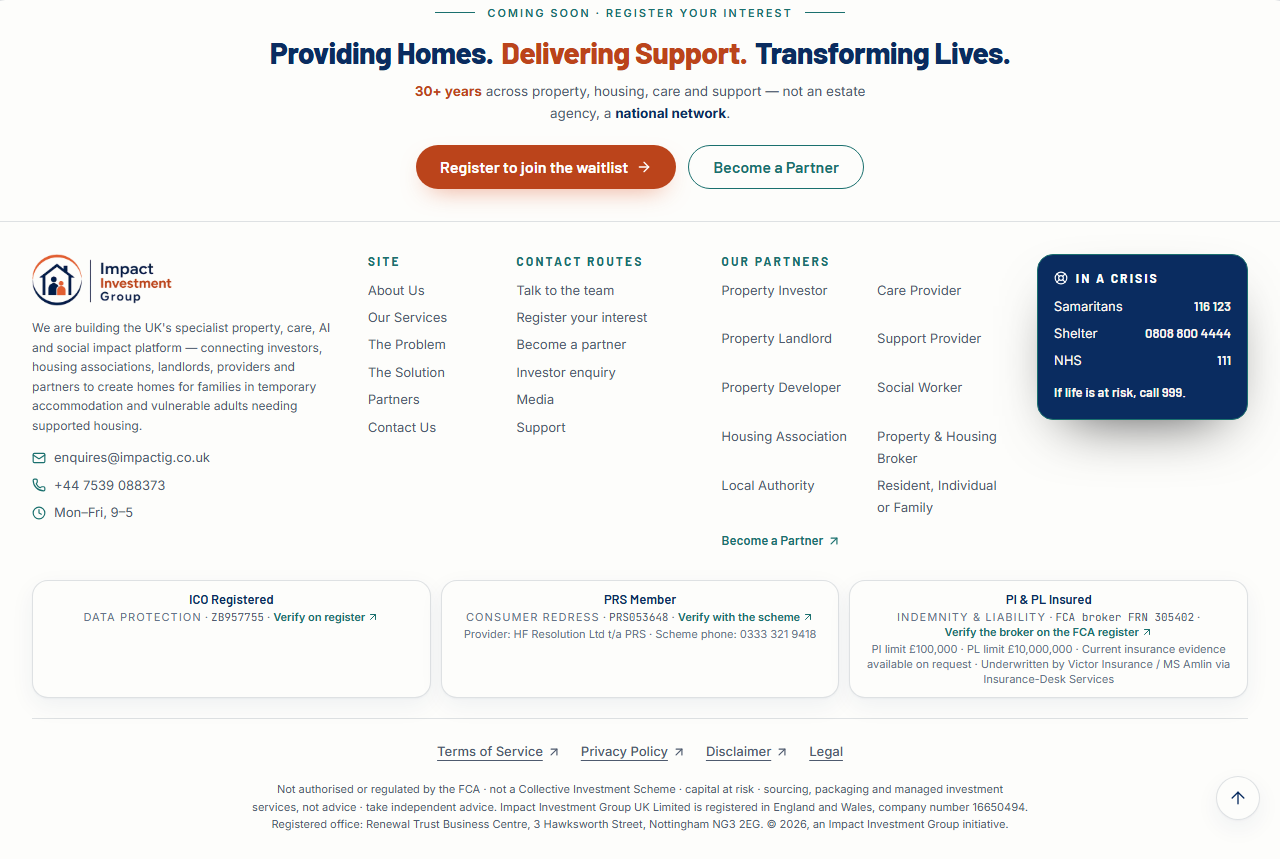
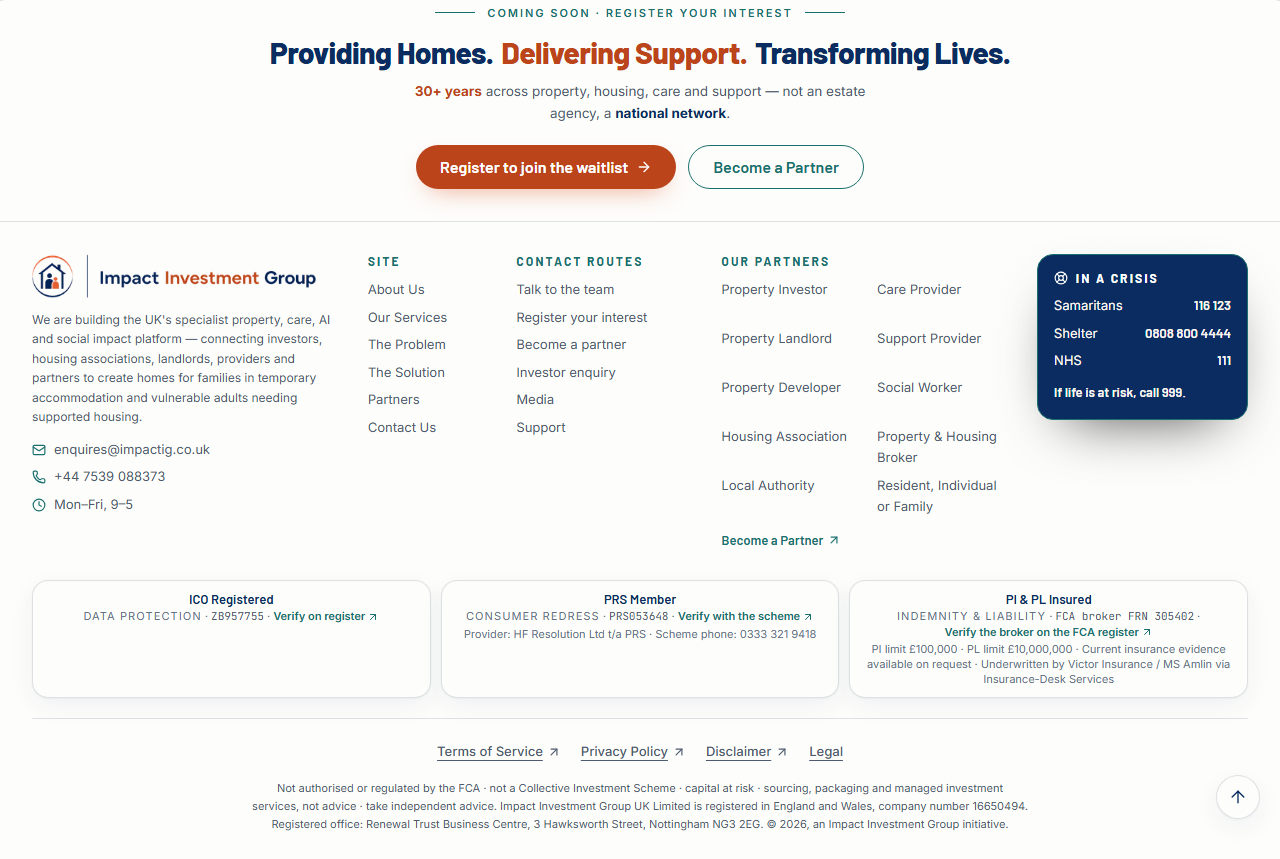
test(wave567): the gates learn the routes that change by design
421 skips the four funnel pairs on the register routes and fails on a
funnel pair missing anywhere else. 507 gains --by-design, empty by
default, which pairs a named page band by band. 490's before shot of
/platform at 1280 and 493's before footers of /platform and /register
are re-shot at this head. The guard writes its dash as an escape and
reads the figures lane apart from the story.

diff --git a/scripts/wave507-titles.py b/scripts/wave507-titles.py
@@ -36,6 +36,14 @@ WHAT IT ASSERTS, in `--mode after` (the default):
 `--mode before` takes the same readings and the same shots and exits 0: run on
 the base build it is the red proof, and it prints every failure it would have
 raised.
+
+`--by-design slug=part+part,...` (wave 567, 7 Oct 2026) is for a later wave
+that changes a page on purpose. Rule 5 stays whole for every page not named.
+A named page is paired band by band, each band cut from its own shot at its
+own position, so a page that grew or shrank is still compared: the bands it
+names may differ, every band it does not name must still be equal in every
+pixel, and a named page on which nothing differs fails, because the flag is
+then out of date. Nothing is named by default.
 """
 
 from __future__ import annotations
@@ -216,6 +224,30 @@ def diff_count(before: Path, after: Path, band: dict | None) -> int | None:
     return int(moved.sum())
 
 
+def band_diff(before: Path, after: Path, was: dict | None, now: dict | None):
+    """One band, cut from each shot at that shot's own position."""
+    if was is None or now is None:
+        return "absent" if was is None and now is None else -1
+    a = np.asarray(Image.open(before).convert("RGBA")).astype(np.int16)
+    b = np.asarray(Image.open(after).convert("RGBA")).astype(np.int16)
+    a = a[max(was["y"], 0): was["y"] + was["h"]]
+    b = b[max(now["y"], 0): now["y"] + now["h"]]
+    if a.shape != b.shape:
+        return int(max(a.shape[0] * a.shape[1], b.shape[0] * b.shape[1]))
+    return int((np.abs(a - b).max(axis=2) > 0).sum())
+
+
+def parse_by_design(text: str) -> dict[str, set[str]]:
+    named: dict[str, set[str]] = {}
+    for item in filter(None, (part.strip() for part in text.split(","))):
+        slug, _, parts = item.partition("=")
+        bands = {b for b in parts.split("+") if b}
+        if not bands or bands - {"header", "main", "footer"}:
+            raise SystemExit(f"--by-design: {item!r} must be slug=main, slug=footer or slug=main+footer.")
+        named[slug] = bands
+    return named
+
+
 def pixel_sha(path: Path) -> str | None:
     """SHA-256 of the decoded RGBA pixels, so the record proves the pairs
     without the 84 MB of PNGs being committed."""
@@ -242,7 +274,8 @@ def source_check(failures: list[str]) -> dict:
     return found
 
 
-def run(build: Path, mode: str) -> int:
+def run(build: Path, mode: str, by_design: dict[str, set[str]] | None = None) -> int:
+    by_design = by_design or {}
     failures: list[str] = []
     record: dict = {"mode": mode, "build": str(build), "markup": {}, "live": {}, "pixels": {}}
     pages = sorted(build.rglob("*.html"))
@@ -322,8 +355,41 @@ def run(build: Path, mode: str) -> int:
         browser.close()
 
     if mode == "after":
+        before_regions = {}
+        if by_design and before_file.exists():
+            before_regions = json.loads(before_file.read_text(encoding="utf-8")).get("regions", {})
+        seen_by_design = set()
         for shot in sorted(shots.glob("*.png")):
             bands = record["regions"][shot.name]
+            slug = shot.stem.rsplit("-", 1)[0]
+            if slug in by_design:
+                # A page a later wave changed on purpose: band by band.
+                seen_by_design.add(slug)
+                allowed = by_design[slug]
+                was = before_regions.get(shot.name)
+                row = {"by_design": sorted(allowed)}
+                if was is None or not (SHOTS / "before" / shot.name).exists():
+                    failures.append(f"pixels: no before shot or before regions for {shot.name}.")
+                    record["pixels"][shot.name] = row
+                    continue
+                for part in ("header", "main", "footer"):
+                    row[part] = band_diff(SHOTS / "before" / shot.name, shot, was[part], bands[part])
+                row["height_before"], row["height_after"] = was["height"], bands["height"]
+                row["sha_before"] = pixel_sha(SHOTS / "before" / shot.name)
+                row["sha_after"] = pixel_sha(shot)
+                record["pixels"][shot.name] = row
+                for part in ("header", "main", "footer"):
+                    if part not in allowed and row[part] not in (0, "absent"):
+                        failures.append(
+                            f"pixels: {shot.name} is changed by design in {sorted(allowed)} only, "
+                            f"and its {part} differs in {row[part]} px."
+                        )
+                if not any(row[part] not in (0, "absent") for part in allowed):
+                    failures.append(
+                        f"pixels: {shot.name} is named as changed by design and nothing in "
+                        f"{sorted(allowed)} differs. Take it out of --by-design."
+                    )
+                continue
             row = {"whole": diff_count(SHOTS / "before" / shot.name, shot, None)}
             for part in ("header", "main", "footer"):
                 row[part] = diff_count(SHOTS / "before" / shot.name, shot, bands[part]) if bands[part] else "absent"
@@ -334,6 +400,8 @@ def run(build: Path, mode: str) -> int:
                 failures.append(f"pixels: no before shot for {shot.name}.")
             elif row["whole"]:
                 failures.append(f"pixels: {shot.name} differs from its before shot: {row}.")
+        for slug in sorted(set(by_design) - seen_by_design):
+            failures.append(f"--by-design names {slug!r}, which is not a page in this build.")
 
     DATA.mkdir(parents=True, exist_ok=True)
     out = DATA / f"titles-{mode}.json"
@@ -348,8 +416,15 @@ def run(build: Path, mode: str) -> int:
                 print(f"  {'':<34} {key} {plain(fields[key])}")
     print(f"src: NEW in {len(record['source']['new'])} route files; old name in {len(record['source']['old'])} metadata strings")
     if record["pixels"]:
-        moved = sum(1 for v in record["pixels"].values() if v["whole"])
-        print(f"pixels: {len(record['pixels'])} full-page shots paired with before (header, main, footer each read), {moved} differ")
+        strict = {k: v for k, v in record["pixels"].items() if "by_design" not in v}
+        moved = sum(1 for v in strict.values() if v["whole"])
+        print(f"pixels: {len(strict)} full-page shots paired with before (header, main, footer each read), {moved} differ")
+        for name, v in record["pixels"].items():
+            if "by_design" in v and "main" in v:
+                print(
+                    f"pixels: {name:<40} changed by design in {'+'.join(v['by_design'])}: header {v['header']}, "
+                    f"main {v['main']}, footer {v['footer']} px differ; page {v['height_before']} -> {v['height_after']} px tall"
+                )
     print(f"wave507   {counts['pages']} pages, {counts['fields']} live readings, {counts['shots']} shots")
     if failures:
         tail = " (recorded, not failed: before mode)" if mode == "before" else ""
@@ -366,11 +441,14 @@ def main() -> int:
     parser = argparse.ArgumentParser()
     parser.add_argument("--build", default=str(BUILD))
     parser.add_argument("--mode", choices=["before", "after"], default="after")
+    # Wave 567, 7 Oct 2026: the pages a later wave changes on purpose, and the
+    # bands of each that may differ. Empty by default, so rule 5 is whole.
+    parser.add_argument("--by-design", default="", help="slug=main+footer,slug=footer,...")
     args = parser.parse_args()
     build = Path(args.build)
     if not (build / "index.html").exists():
         raise SystemExit(f"No build at {build}. Run: STATIC_BUILD=true bun run build")
-    return run(build, args.mode)
+    return run(build, args.mode, parse_by_design(args.by_design))
 
 
 if __name__ == "__main__":

diff --git a/scripts/wave567-copy.py b/scripts/wave567-copy.py
@@ -29,11 +29,16 @@ WHAT THIS READS AND ASSERTS, in `--mode after` (the default):
      workflow panel, the two meta values, and no "prove" or "proves" as a
      word anywhere in the page's text.
   5. HOW WE DIFFER at 1280 and 390, with each of the three chapters selected
-     in turn: the section's text never carries "25"; the strip reads the two
+     in turn: the story's text (the heading, the lead, the chapter card, the
+     strip and the three principles) never carries "25"; the strip reads the two
      approved sides; chapter 01's figure reads FIXED and chapter 03's reads
      5+, each with its caption; chapter 03's title, body and three points are
      the approved ones; and the figure's own box stays inside its card, which
-     is what the size-by-shape branch is for.
+     is what the size-by-shape branch is for. The band also holds the lane
+     of three published figures, whose sources are dated "31 March 2025", "31
+     December 2025" and "2024 to 25": those are the dates of gov.uk
+     publications and no figure may lose its date, so the lane is read apart
+     from the story and every "25" in it has to sit inside one of those dates.
   6. THE SOURCE: no triad string with "prove" is left in the two files that
      held them.
 
@@ -67,7 +72,7 @@ SHOTS = ROOT / "docs" / "screenshots" / "wave567"
 DATA = ROOT / "docs" / "wave567"
 
 PROFILES = [("1280", 1280, 900, False), ("390", 390, 844, True)]
-DASH = "—"
+DASH = "\u2014"
 
 DESCRIPTION = (
     "Find it, price it, match it. We source UK residential property, price every home "
@@ -125,6 +130,8 @@ FUNNEL_ROUTES = [
 SHOT_SLUGS = {"platform", "register", "register-investor"}
 
 TRIAD_RE = re.compile(r"prove it|prove\.|proves|Price · Prove|PRICE IT · PROVE", re.I)
+# The only "25"s the band may show: the dates on the three published figures.
+DATE_RE = re.compile(r"31 March 2025|31 December 2025|2024\u201325")
 WORD_RE = re.compile(r"\bproves?\b", re.I)
 
 STILL = (
@@ -205,6 +212,12 @@ DIFFER_READ = r"""
   const card = panel.querySelector('.rounded-2xl');
   const figure = card.querySelector('p');
   const strip = [...panel.querySelectorAll('.border-t span.font-semibold')].map(text);
+  const lane = section.querySelector('.demand-ticker');
+  const laneWords = lane ? lane.innerText : '';
+  // The story is the section less the lane of published figures.
+  const all = section.innerText;
+  const at = laneWords ? all.indexOf(laneWords) : -1;
+  const story = at < 0 ? null : all.slice(0, at) + all.slice(at + laneWords.length);
   const c = card.getBoundingClientRect();
   const f = figure.getBoundingClientRect();
   // The glyphs, not the paragraph's box: a range over the text node is what
@@ -213,7 +226,8 @@ DIFFER_READ = r"""
   range.selectNodeContents(figure);
   const g = range.getBoundingClientRect();
   return {
-    words: section.innerText,
+    words: story,
+    lane: laneWords,
     eyebrow: text(panel.querySelector('p.eyebrow')),
     title: text(panel.querySelector('h3')),
     body: text(panel.querySelector('h3 + p')),
@@ -325,8 +339,8 @@ def run(build: Path, mode: str) -> int:
             print(
                 f"  {'':<26} chapter {chapter:<8} figure {plain(row['value'])} at {row['fontPx']:.0f}px, "
                 f"glyphs {row['glyphs'][0]:.0f} to {row['glyphs'][1]:.0f} in a card {row['card'][0]:.0f} to "
-                f"{row['card'][1]:.0f}; caption {plain(row['unit'])}; \"25\" in the section: "
-                f"{'YES' if '25' in row['words'] else 'no'}"
+                f"{row['card'][1]:.0f}; caption {plain(row['unit'])}; \"25\" in the story: "
+                f"{'YES' if '25' in row['words'] else 'no'}; in the figures lane only in {plain(row.get('laneDates'))}"
             )
         if "platform" in reading:
             r = reading["platform"]
@@ -398,8 +412,14 @@ def read_platform(page, where, label, mode, reading, failures, counts, shoot) ->
         row = select(index)
         reading["differ"][chapter] = row
         there = f"live {where} chapter {chapter}"
+        if row["words"] is None:
+            failures.append(f"{there}: the lane of published figures could not be told from the story.")
+            row["words"] = ""
         if "25" in row["words"]:
-            failures.append(f"{there}: the section's text carries \"25\".")
+            failures.append(f"{there}: the story's text carries \"25\".")
+        if "25" in DATE_RE.sub("", row["lane"]):
+            failures.append(f"{there}: the figures lane carries a \"25\" outside a source date.")
+        row["laneDates"] = sorted(set(DATE_RE.findall(row["lane"])))
         if row["strip"] != STRIP:
             failures.append(f"{there}: the strip reads {plain(row['strip'])}.")
         if (row["value"], row["unit"]) != VISUAL[chapter]:

diff --git a/scripts/wave421-hero-and-footer.py b/scripts/wave421-hero-and-footer.py
@@ -194,6 +194,23 @@ FOOTER_PAIRS = [
     ("the legal notice", "footer p.max-w-\\[120ch\\]"),
 ]
 
+# Wave 567, 7 Oct 2026: the funnel is not rendered on /register or under it
+# (Callum: "the user is already registering on that page"), so on those routes
+# its four pairs are not read and the funnel must be absent. On every other
+# route with a footer all fifteen are still read, and a funnel pair that names
+# nothing there now FAILS rather than being listed. Without this the badge row
+# resolved on the register routes to a different teal line and measured that.
+FUNNEL_PAIRS = {
+    "the funnel headline, navy beats",
+    "the funnel headline, orange beat",
+    "the pre-release badge",
+    "the 30+ years line",
+}
+
+
+def without_funnel(path: str) -> bool:
+    return path == "/register" or path.startswith("/register/")
+
 
 # ---------------------------------------------------------------------------
 # A. THE VARIANT
@@ -817,7 +834,15 @@ def main() -> None:
 
                 pairs = list(HERO_PAIRS) if path == "/" else []
                 if path not in PAGES_WITHOUT_FOOTER:
-                    pairs += FOOTER_PAIRS
+                    if without_funnel(path):
+                        pairs += [pair for pair in FOOTER_PAIRS if pair[0] not in FUNNEL_PAIRS]
+                        if page.locator("#funnel-heading").count():
+                            failures.append(
+                                f"{where}: the register funnel is rendered on a register "
+                                f"route, where wave 567 took it out."
+                            )
+                    else:
+                        pairs += FOOTER_PAIRS
                 nodes = []
                 for label, selector in pairs:
                     node = page.evaluate(NODE_READ, selector)
@@ -830,6 +855,11 @@ def main() -> None:
                         # the page. The misses are listed and a pair that
                         # resolves on NO shot fails the run.
                         missing.append((where, label, selector))
+                        if label in FUNNEL_PAIRS:
+                            failures.append(
+                                f"{where}: the funnel pair {label!r} names nothing, and "
+                                f"only the register routes are without the funnel."
+                            )
                         continue
                     node["label"] = label
                     nodes.append(node)

diff --git a/scripts/wave493-logo.py b/scripts/wave493-logo.py
@@ -484,7 +484,13 @@ def run(build: Path, mode: str, profiles, routes, out_json: Path, shots: Path) -
 
 
 def pair(before_json: Path, after_json: Path, failures: list[str]) -> None:
-    """R493-6 at 1280: nothing outside the logo's own reach may differ."""
+    """R493-6 at 1280: nothing outside the logo's own reach may differ.
+
+    Wave 567, 7 Oct 2026: `before/platform-1280-footer.png` and
+    `before/register-1280-footer.png` were re-shot at that wave's head, which
+    took the funnel out of the register footer and made /platform 25px
+    shorter. Every other before shot is still wave 493's base.
+    """
     before = json.loads(before_json.read_text(encoding="utf-8"))["readings"]
     after = json.loads(after_json.read_text(encoding="utf-8"))["readings"]
     out = SHOTS / "before_after"

diff --git a/scripts/wave490-phone.py b/scripts/wave490-phone.py
@@ -2096,6 +2096,10 @@ TOUCHED = {
     "about": ["article", "ol > li > div"],
     "solutions": ["span.rounded-full"],
 }
+# Wave 567, 7 Oct 2026: `before/platform-1280.png` was re-shot at that wave's
+# head, which reworded the page on purpose and made it 25px shorter; no box was
+# added above for it. The register routes lost the footer funnel in the same
+# wave and pair inside the footer, which the next line already declares.
 # Every route carries the footer, whose three Verify links item 12 touches.
 TOUCHED_EVERYWHERE = ["footer"]
 ANIMATED_MASKS = ["canvas", ".logo-marquee", ".tabular-nums"]
